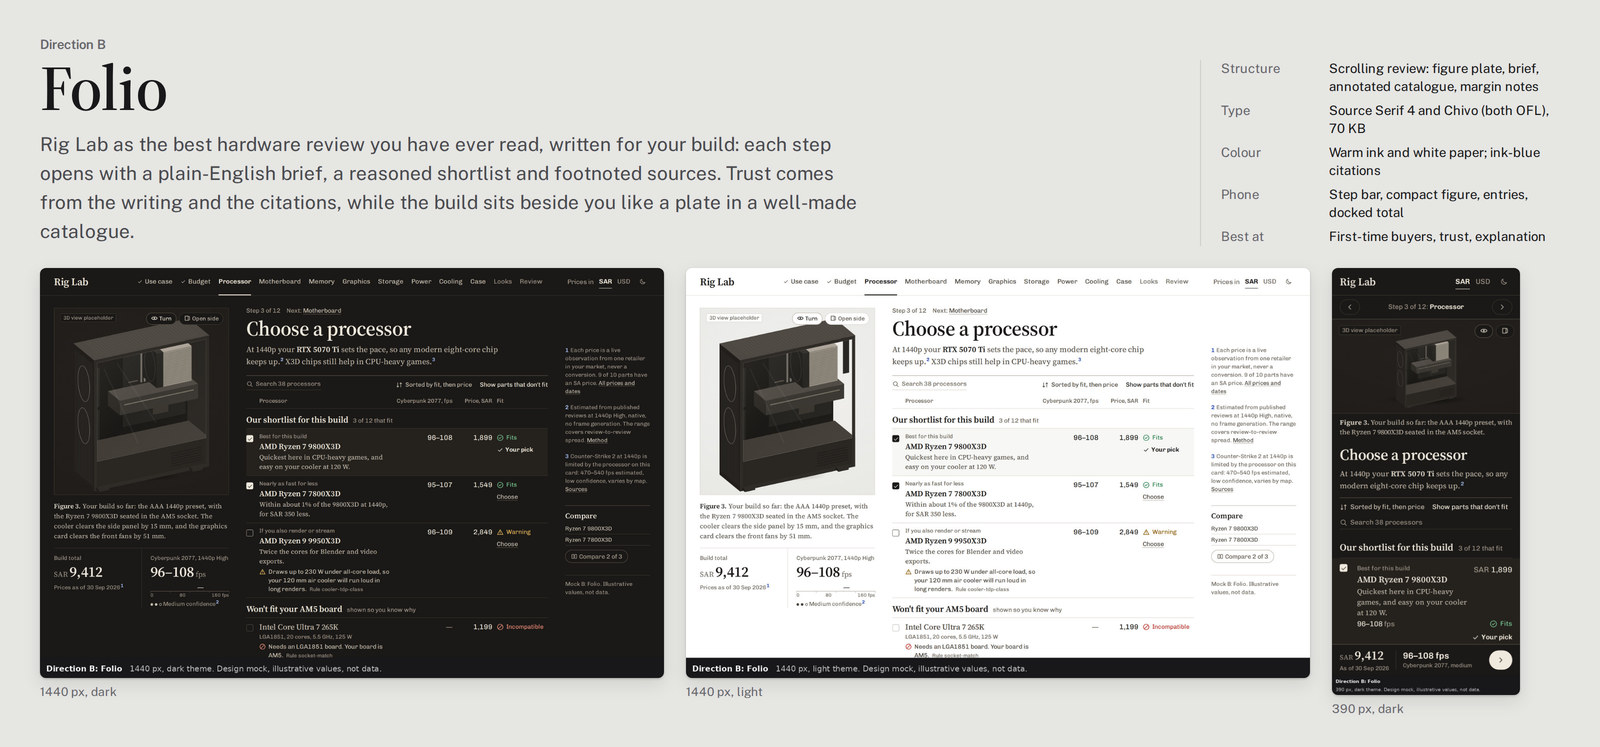
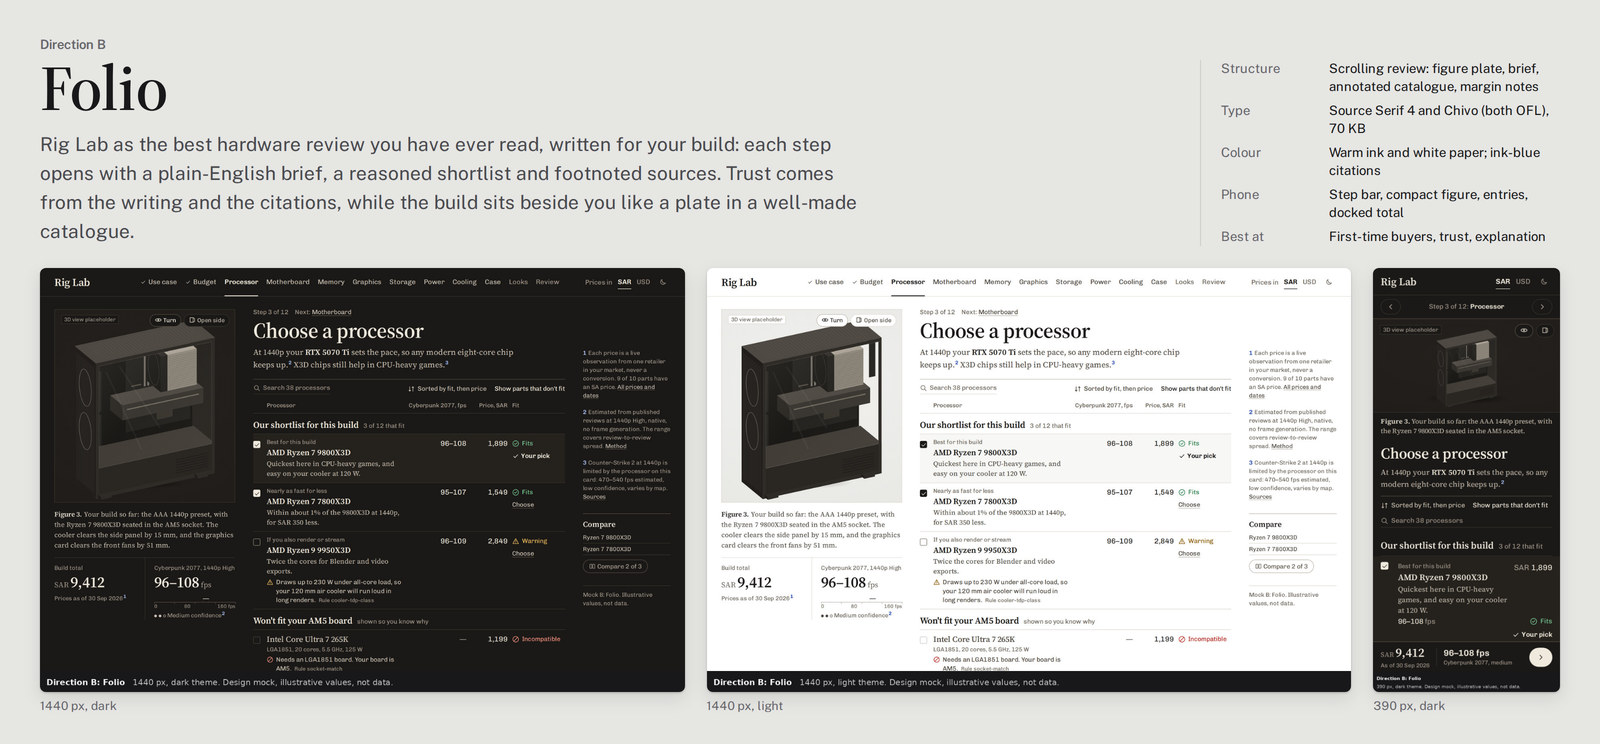
design: align board captions with justified screenshot rows
The phone shot in each row was taller than the desktop shots beside it
(254 vs 242 px on the compare board, 427 vs 410 px on the one-screen
summaries), so captions sat on different baselines. Each shot now grows
by its image's aspect ratio: equal heights, 0.0 px caption spread,
measured by render-board.cjs. Also scoped the intro rule so it no longer
overrides the footer's spacing.

Claude-Session: https://claude.ai/code/session_01ETfjPtJNMrx5HQNzy9SfWS

diff --git a/docs/design/board/index.html b/docs/design/board/index.html
@@ -19,7 +19,7 @@ img { display: block; width: 100%; height: auto; border-radius: 6px; box-shadow:
 .name-b { font-family: "Source Serif 4", serif; font-weight: 600; letter-spacing: -.01em; }
 .name-c { font-family: "Mona Sans", sans-serif; font-stretch: 125%; font-weight: 300; letter-spacing: -.01em; }
 .letter { font-size: 13px; line-height: 18px; color: var(--ink-3); font-weight: 600; }
-.foot { margin-top: 20px; font-size: 12px; line-height: 18px; color: var(--ink-3); }
+.foot { margin: 28px 0 0; font-size: 12px; line-height: 18px; color: var(--ink-3); }
 
 /* one-screen summary for a single direction: 1600 x ~760 */
 .summary { width: 1600px; padding: 36px 40px 30px; }
@@ -29,24 +29,28 @@ img { display: block; width: 100%; height: auto; border-radius: 6px; box-shadow:
 .summary dl { margin: 0; display: grid; grid-template-columns: 96px 1fr; gap: 6px 12px; font-size: 13px; line-height: 18px; border-left: 1px solid var(--rule); padding-left: 20px; }
 .summary dt { color: var(--ink-3); }
 .summary dd { margin: 0; color: var(--ink); }
-.summary .shots { display: grid; grid-template-columns: 624px 624px 188px; gap: 22px; align-items: start; }
+.summary .shots { display: flex; gap: 22px; }
 
 /* the three directions side by side: 1600 x ~1400 */
 .compare { width: 1600px; padding: 34px 36px 30px; }
 .compare > h1 { margin: 0 0 4px; font-size: 26px; line-height: 32px; font-weight: 600; }
-.compare > p { margin: 0 0 22px; color: var(--ink-2); max-width: 110ch; }
+.compare > .lede { margin: 0 0 22px; color: var(--ink-2); max-width: 110ch; }
 .cols { display: grid; grid-template-columns: repeat(3, 1fr); gap: 26px; }
 .col h2 { margin: 2px 0 8px; font-size: 44px; line-height: 46px; font-weight: inherit; }
 .col .thesis { margin: 0 0 16px; font-size: 14px; line-height: 21px; color: var(--ink-2); min-height: 105px; }
 .col .stack { display: grid; gap: 14px; }
-.col .pair { display: grid; grid-template-columns: 1fr 112px; gap: 12px; align-items: start; }
+.col .pair { display: flex; gap: 12px; }
+/* Justified rows: each shot grows in proportion to its image's aspect ratio (desktop 1600/1052,
+   phone 780/1771), so every image in a row is the same height and the captions share a baseline. */
+.shot-d { flex: 1.5209 1 0; min-width: 0; }
+.shot-p { flex: 0.4404 1 0; min-width: 0; }
 .hidden { display: none; }
 </style>
 </head>
 <body>
 <main id="compare" class="compare">
   <h1>Rig Lab: three directions for the builder</h1>
-  <p>The same CPU step drawn three ways, with the same parts and the same illustrative numbers. Each column shows 1440 px dark, 1440 px light and 390 px dark. Design mocks with illustrative values, not data.</p>
+  <p class="lede">The same CPU step drawn three ways, with the same parts and the same illustrative numbers. Each column shows 1440 px dark, 1440 px light and 390 px dark. Design mocks with illustrative values, not data.</p>
   <div class="cols">
     <section class="col">
       <div class="letter">Direction A</div>
@@ -54,7 +58,7 @@ img { display: block; width: 100%; height: auto; border-radius: 6px; box-shadow:
       <p class="thesis" data-thesis="a"></p>
       <div class="stack">
         <div><img src="../mocks/bench/1440-dark.jpg" alt="Bench at 1440 px, dark"><div class="cap">1440 px, dark</div></div>
-        <div class="pair"><div><img src="../mocks/bench/1440-light.jpg" alt="Bench at 1440 px, light"><div class="cap">1440 px, light</div></div><div><img src="../mocks/bench/390-dark.jpg" alt="Bench at 390 px, dark"><div class="cap">390 px, dark</div></div></div>
+        <div class="pair"><div class="shot-d"><img src="../mocks/bench/1440-light.jpg" alt="Bench at 1440 px, light"><div class="cap">1440 px, light</div></div><div class="shot-p"><img src="../mocks/bench/390-dark.jpg" alt="Bench at 390 px, dark"><div class="cap">390 px, dark</div></div></div>
       </div>
     </section>
     <section class="col">
@@ -63,7 +67,7 @@ img { display: block; width: 100%; height: auto; border-radius: 6px; box-shadow:
       <p class="thesis" data-thesis="b"></p>
       <div class="stack">
         <div><img src="../mocks/folio/1440-dark.jpg" alt="Folio at 1440 px, dark"><div class="cap">1440 px, dark</div></div>
-        <div class="pair"><div><img src="../mocks/folio/1440-light.jpg" alt="Folio at 1440 px, light"><div class="cap">1440 px, light</div></div><div><img src="../mocks/folio/390-dark.jpg" alt="Folio at 390 px, dark"><div class="cap">390 px, dark</div></div></div>
+        <div class="pair"><div class="shot-d"><img src="../mocks/folio/1440-light.jpg" alt="Folio at 1440 px, light"><div class="cap">1440 px, light</div></div><div class="shot-p"><img src="../mocks/folio/390-dark.jpg" alt="Folio at 390 px, dark"><div class="cap">390 px, dark</div></div></div>
       </div>
     </section>
     <section class="col">
@@ -72,7 +76,7 @@ img { display: block; width: 100%; height: auto; border-radius: 6px; box-shadow:
       <p class="thesis" data-thesis="c"></p>
       <div class="stack">
         <div><img src="../mocks/studio/1440-dark.jpg" alt="Studio at 1440 px, dark"><div class="cap">1440 px, dark</div></div>
-        <div class="pair"><div><img src="../mocks/studio/1440-light.jpg" alt="Studio at 1440 px, light"><div class="cap">1440 px, light</div></div><div><img src="../mocks/studio/390-dark.jpg" alt="Studio at 390 px, dark"><div class="cap">390 px, dark</div></div></div>
+        <div class="pair"><div class="shot-d"><img src="../mocks/studio/1440-light.jpg" alt="Studio at 1440 px, light"><div class="cap">1440 px, light</div></div><div class="shot-p"><img src="../mocks/studio/390-dark.jpg" alt="Studio at 390 px, dark"><div class="cap">390 px, dark</div></div></div>
       </div>
     </section>
   </div>
@@ -89,9 +93,9 @@ img { display: block; width: 100%; height: auto; border-radius: 6px; box-shadow:
     <dl data-f="facts"></dl>
   </header>
   <div class="shots">
-    <div><img data-f="d" alt=""><div class="cap">1440 px, dark</div></div>
-    <div><img data-f="l" alt=""><div class="cap">1440 px, light</div></div>
-    <div><img data-f="p" alt=""><div class="cap">390 px, dark</div></div>
+    <div class="shot-d"><img data-f="d" alt=""><div class="cap">1440 px, dark</div></div>
+    <div class="shot-d"><img data-f="l" alt=""><div class="cap">1440 px, light</div></div>
+    <div class="shot-p"><img data-f="p" alt=""><div class="cap">390 px, dark</div></div>
   </div>
 </main>
 
